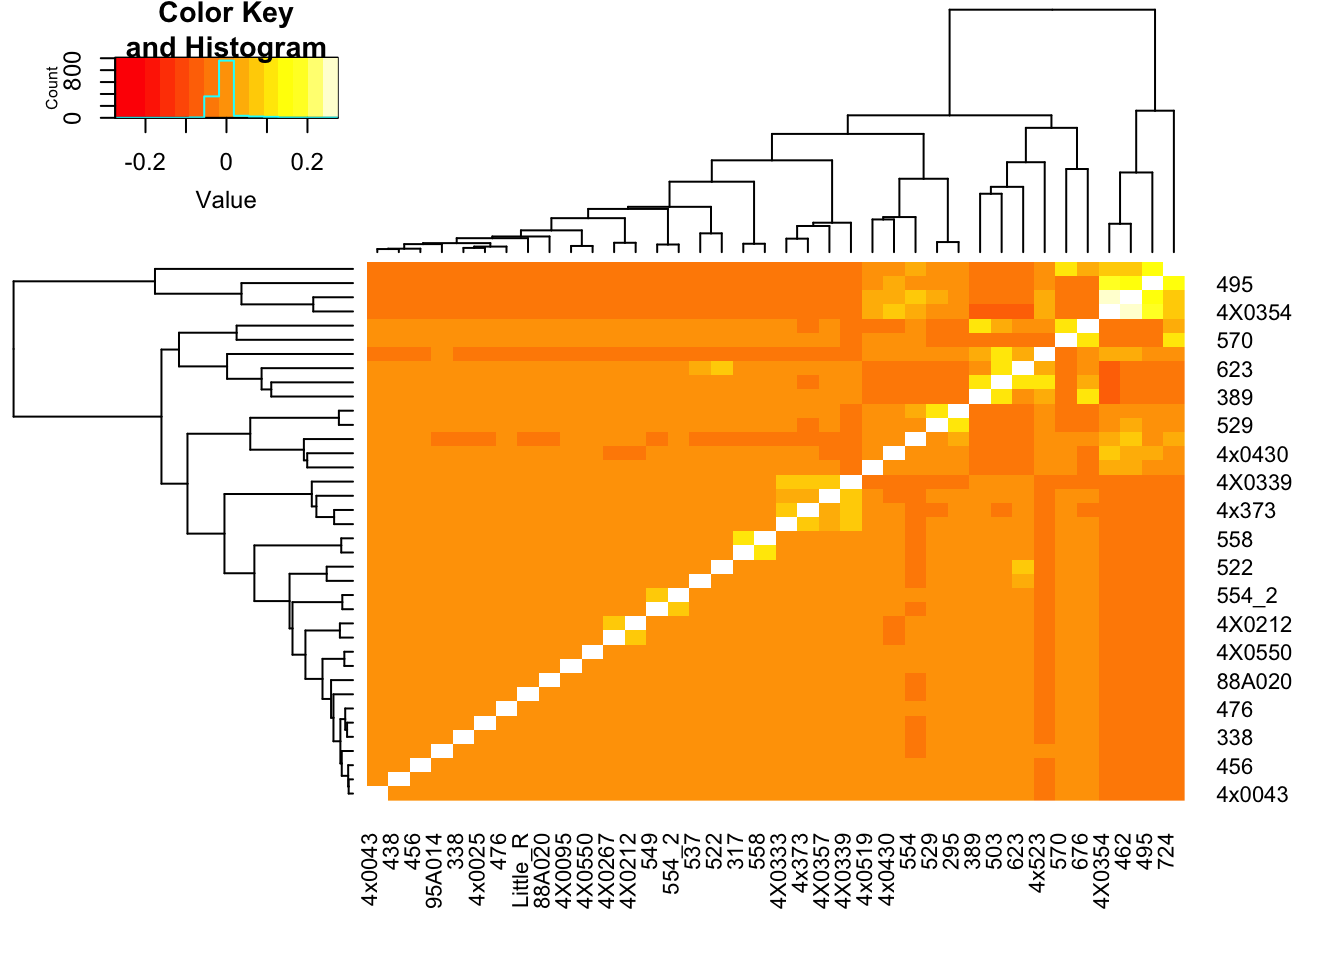
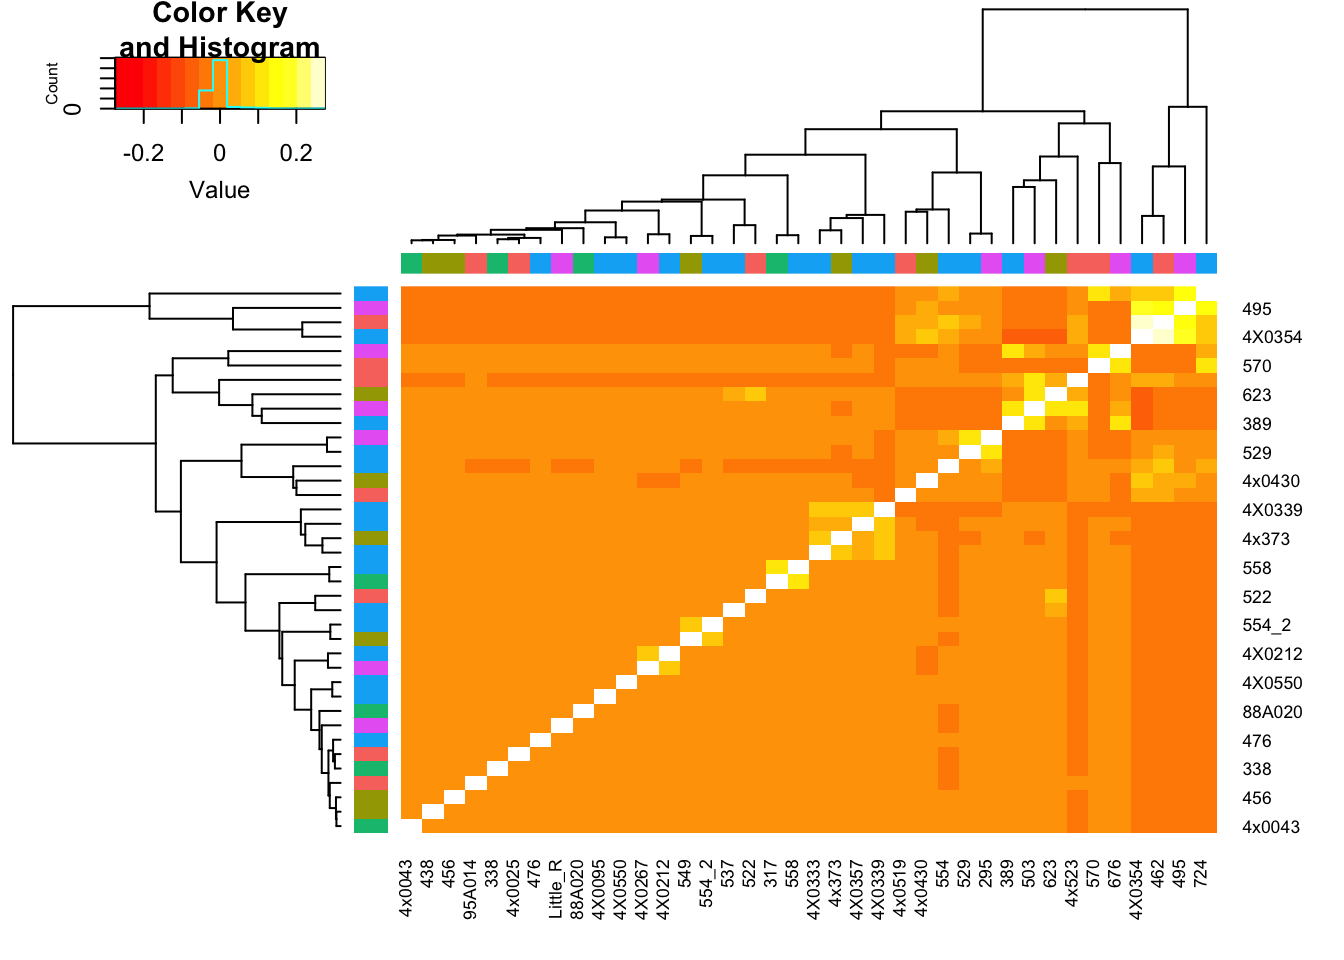
update site

diff --git a/docs/20200907_Response_Point_06.html b/docs/20200907_Response_Point_06.html
@@ -432,7 +432,7 @@ This reproducible <a href="http://rmarkdown.rstudio.com">R Markdown</a> analysis
 </div>
 <div id="strongRMarkdownfilestronguncommittedchanges" class="panel-collapse collapse">
 <div class="panel-body">
-<p>The R Markdown is untracked by Git. To know which version of the R Markdown file created these results, you’ll want to first commit it to the Git repo. If you’re still working on the analysis, you can ignore this warning. When you’re finished, you can run <code>wflow_publish</code> to commit the R Markdown file and build the HTML.</p>
+<p>The R Markdown file has unstaged changes. To know which version of the R Markdown file created these results, you’ll want to first commit it to the Git repo. If you’re still working on the analysis, you can ignore this warning. When you’re finished, you can run <code>wflow_publish</code> to commit the R Markdown file and build the HTML.</p>
 </div>
 </div>
 </div>
@@ -499,10 +499,10 @@ This reproducible <a href="http://rmarkdown.rstudio.com">R Markdown</a> analysis
 <div class="panel panel-default">
 <div class="panel-heading">
 <p class="panel-title">
-<a data-toggle="collapse" data-parent="#workflowr-checks" href="#strongRepositoryversionstrongahrefhttpsgithubcombfairkunComparativeeQTLtree16b29049b0abd3e554f51f68ff008c54812985edtargetblank16b2904a"> <span class="glyphicon glyphicon-ok text-success" aria-hidden="true"></span> <strong>Repository version:</strong> <a href="https://github.com/bfairkun/Comparative_eQTL/tree/16b29049b0abd3e554f51f68ff008c54812985ed" target="_blank">16b2904</a> </a>
+<a data-toggle="collapse" data-parent="#workflowr-checks" href="#strongRepositoryversionstrongahrefhttpsgithubcombfairkunComparativeeQTLtree5f95cbc38ccc25bd80d302da4f64290c16b317b6targetblank5f95cbca"> <span class="glyphicon glyphicon-ok text-success" aria-hidden="true"></span> <strong>Repository version:</strong> <a href="https://github.com/bfairkun/Comparative_eQTL/tree/5f95cbc38ccc25bd80d302da4f64290c16b317b6" target="_blank">5f95cbc</a> </a>
 </p>
 </div>
[2 lines of base64/hex data omitted]
 <div class="panel-body">
 <p>
 Great! You are using Git for version control. Tracking code development and connecting the code version to the results is critical for reproducibility. The version displayed above was the version of the Git repository at the time these results were generated. <br><br> Note that you need to be careful to ensure that all relevant files for the analysis have been committed to Git prior to generating the results (you can use <code>wflow_publish</code> or <code>wflow_git_commit</code>). workflowr only checks the R Markdown file, but you know if there are other scripts or data files that it depends on. Below is the status of the Git repository when the results were generated:
@@ -526,11 +526,8 @@ Ignored files:
     Ignored:    figures/
     Ignored:    output/.DS_Store
 
-Untracked files:
-    Untracked:  analysis/20200907_Response_Point_06.Rmd
-
 Unstaged changes:
-    Modified:   analysis/20200907_Response_OriginalComments.Rmd
+    Modified:   analysis/20200907_Response_Point_06.Rmd
 
 </code></pre>
 <p>
@@ -543,9 +540,69 @@ Note that any generated files, e.g. HTML, png, CSS, etc., are not included in t
 <hr>
 </div>
 <div id="versions" class="tab-pane fade">
+
 <p>
-There are no past versions. Publish this analysis with <code>wflow_publish()</code> to start tracking its development.
+These are the previous versions of the R Markdown and HTML files. If you’ve configured a remote Git repository (see <code>?wflow_git_remote</code>), click on the hyperlinks in the table below to view them.
 </p>
+<div class="table-responsive">
+<table class="table table-condensed table-hover">
+<thead>
+<tr>
+<th>
+File
+</th>
+<th>
+Version
+</th>
+<th>
+Author
+</th>
+<th>
+Date
+</th>
+<th>
+Message
+</th>
+</tr>
+</thead>
+<tbody>
+<tr>
+<td>
+Rmd
+</td>
+<td>
+<a href="https://github.com/bfairkun/Comparative_eQTL/blob/5f95cbc38ccc25bd80d302da4f64290c16b317b6/analysis/20200907_Response_Point_06.Rmd" target="_blank">5f95cbc</a>
+</td>
+<td>
+Benjmain Fair
+</td>
+<td>
+2020-09-10
+</td>
+<td>
+update site
+</td>
+</tr>
+<tr>
+<td>
+html
+</td>
+<td>
+<a href="https://rawcdn.githack.com/bfairkun/Comparative_eQTL/5f95cbc38ccc25bd80d302da4f64290c16b317b6/docs/20200907_Response_Point_06.html" target="_blank">5f95cbc</a>
+</td>
+<td>
+Benjmain Fair
+</td>
+<td>
+2020-09-10
+</td>
+<td>
+update site
+</td>
+</tr>
+</tbody>
+</table>
+</div>
 <hr>
 </div>
 </div>
@@ -557,16 +614,70 @@ There are no past versions. Publish this analysis with <code>wflow_publish()</co
 <p>I will address the first point (about relatedness in DE analysis) empricially by reporfming DE analysis with subsamples of chimps that have some relatively high degree of inter-relatedness, compared to subsamples that do not have such relatedness.</p>
 <p>First load necessary libraries for analysis…</p>
 <pre class="r"><code>library(tidyverse)
-library(gplots)</code></pre>
-<p>Load relatedness matrix</p>
-<pre class="r"><code>SampleLabels &lt;- read.table(&#39;../output/ForAssociationTesting.temp.fam&#39;, stringsAsFactors = F)$V2
+library(gplots)
+library(readxl)
+library(scales)</code></pre>
+<p>Load relatedness matrix and RNA-seq sample batch info</p>
+<pre class="r"><code>#Relatedness matrix
+SampleLabels &lt;- read.table(&#39;../output/ForAssociationTesting.temp.fam&#39;, stringsAsFactors = F)$V2
 GemmaMatrix &lt;- as.matrix(read.table(&#39;../output/GRM.cXX.txt&#39;))
 colnames(GemmaMatrix) &lt;- SampleLabels
 row.names(GemmaMatrix) &lt;- SampleLabels
 
+#Metadata like RNA-seq batch
+Metadata&lt;-read_excel(&quot;../data/Metadata_SequencedChimps.xlsx&quot;)
+Metadata$RNA.Extract_date %&gt;% unique() %&gt;% length()</code></pre>
+<pre><code>[1] 5</code></pre>
+<pre class="r"><code>Metadata$RNA.Library.prep.batch %&gt;% unique() %&gt;% length()</code></pre>
+<pre><code>[1] 5</code></pre>
+<pre class="r"><code>Colors &lt;- data.frame(Numbers=1:5, Colors=hue_pal()(5))
+
+BatchColor &lt;- data.frame(IndividualID=as.character(colnames(GemmaMatrix))) %&gt;% 
+  left_join(Metadata, by=c(&quot;IndividualID&quot;=&quot;IndividualID (as listed in vcf)&quot;)) %&gt;%
+  dplyr::select(IndividualID, RNA.Library.prep.batch) %&gt;%
+  left_join(Colors, by=c(&quot;RNA.Library.prep.batch&quot;=&quot;Numbers&quot;)) %&gt;%
+  pull(Colors) %&gt;% as.character()
+
 diag(GemmaMatrix) &lt;- NA #For plotting purposes, just don&#39;t show the diagonol so that the color scale is better for non-diagnol entries
-heatmap.2(GemmaMatrix, trace=&quot;none&quot;)</code></pre>
+heatmap.2(GemmaMatrix, trace=&quot;none&quot;, RowSideColors = BatchColor, ColSideColors = BatchColor)</code></pre>
 <p><img src="figure/20200907_Response_Point_06.Rmd/unnamed-chunk-2-1.png" width="672" style="display: block; margin: auto;" /></p>
+<p>
+<button type="button" class="btn btn-default btn-xs btn-workflowr btn-workflowr-fig" data-toggle="collapse" data-target="#fig-unnamed-chunk-2-1">
+Past versions of unnamed-chunk-2-1.png
+</button>
+</p>
+<div id="fig-unnamed-chunk-2-1" class="collapse">
+<div class="table-responsive">
+<table class="table table-condensed table-hover">
+<thead>
+<tr>
+<th>
+Version
+</th>
+<th>
+Author
+</th>
+<th>
+Date
+</th>
+</tr>
+</thead>
+<tbody>
+<tr>
+<td>
+<a href="https://github.com/bfairkun/Comparative_eQTL/blob/5f95cbc38ccc25bd80d302da4f64290c16b317b6/docs/figure/20200907_Response_Point_06.Rmd/unnamed-chunk-2-1.png" target="_blank">5f95cbc</a>
+</td>
+<td>
+Benjmain Fair
+</td>
+<td>
+2020-09-10
+</td>
+</tr>
+</tbody>
+</table>
+</div>
+</div>
 <p>I may pick out some of those somewhat related sample blocks for DE analysis… First, I should also try to match batches for this analysis.</p>
 <br>
 <p>
@@ -591,27 +702,27 @@ attached base packages:
 [1] stats     graphics  grDevices utils     datasets  methods   base     
 
 other attached packages:
- [1] gplots_3.0.1.1  forcats_0.4.0   stringr_1.4.0   dplyr_0.8.3    
- [5] purrr_0.3.3     readr_1.3.1     tidyr_1.0.0     tibble_2.1.3   
- [9] ggplot2_3.2.1   tidyverse_1.3.0
+ [1] scales_1.1.0    readxl_1.3.1    gplots_3.0.1.1  forcats_0.4.0  
+ [5] stringr_1.4.0   dplyr_0.8.3     purrr_0.3.3     readr_1.3.1    
+ [9] tidyr_1.0.0     tibble_2.1.3    ggplot2_3.2.1   tidyverse_1.3.0
 
 loaded via a namespace (and not attached):
- [1] gtools_3.8.1       tidyselect_0.2.5   xfun_0.11          haven_2.2.0       
- [5] lattice_0.20-38    colorspace_1.4-1   vctrs_0.2.0        generics_0.0.2    
- [9] htmltools_0.4.0    yaml_2.2.0         rlang_0.4.1        later_1.0.0       
-[13] pillar_1.4.2       withr_2.1.2        glue_1.3.1         DBI_1.0.0         
-[17] dbplyr_1.4.2       modelr_0.1.5       readxl_1.3.1       lifecycle_0.1.0   
-[21] munsell_0.5.0      gtable_0.3.0       workflowr_1.5.0    cellranger_1.1.0  
-[25] rvest_0.3.5        caTools_1.17.1.3   evaluate_0.14      knitr_1.26        
-[29] httpuv_1.5.2       fansi_0.4.0        broom_0.5.2        Rcpp_1.0.5        
-[33] KernSmooth_2.23-16 promises_1.1.0     backports_1.1.5    scales_1.1.0      
-[37] gdata_2.18.0       jsonlite_1.6       fs_1.3.1           hms_0.5.2         
-[41] digest_0.6.23      stringi_1.4.3      grid_3.6.1         rprojroot_1.3-2   
-[45] bitops_1.0-6       cli_2.0.0          tools_3.6.1        magrittr_1.5      
-[49] lazyeval_0.2.2     crayon_1.3.4       pkgconfig_2.0.3    zeallot_0.1.0     
-[53] xml2_1.2.2         reprex_0.3.0       lubridate_1.7.4    rstudioapi_0.10   
-[57] assertthat_0.2.1   rmarkdown_1.18     httr_1.4.1         R6_2.4.1          
-[61] nlme_3.1-143       git2r_0.26.1       compiler_3.6.1    </code></pre>
+ [1] Rcpp_1.0.5         lubridate_1.7.4    lattice_0.20-38    gtools_3.8.1      
+ [5] assertthat_0.2.1   zeallot_0.1.0      rprojroot_1.3-2    digest_0.6.23     
+ [9] R6_2.4.1           cellranger_1.1.0   backports_1.1.5    reprex_0.3.0      
+[13] evaluate_0.14      httr_1.4.1         pillar_1.4.2       rlang_0.4.1       
+[17] lazyeval_0.2.2     rstudioapi_0.10    gdata_2.18.0       whisker_0.4       
+[21] rmarkdown_1.18     munsell_0.5.0      broom_0.5.2        compiler_3.6.1    
+[25] httpuv_1.5.2       modelr_0.1.5       xfun_0.11          pkgconfig_2.0.3   
+[29] htmltools_0.4.0    tidyselect_0.2.5   workflowr_1.5.0    fansi_0.4.0       
+[33] crayon_1.3.4       dbplyr_1.4.2       withr_2.1.2        later_1.0.0       
+[37] bitops_1.0-6       grid_3.6.1         nlme_3.1-143       jsonlite_1.6      
+[41] gtable_0.3.0       lifecycle_0.1.0    DBI_1.0.0          git2r_0.26.1      
+[45] magrittr_1.5       KernSmooth_2.23-16 cli_2.0.0          stringi_1.4.3     
+[49] farver_2.0.1       fs_1.3.1           promises_1.1.0     xml2_1.2.2        
+[53] generics_0.0.2     vctrs_0.2.0        tools_3.6.1        glue_1.3.1        
+[57] hms_0.5.2          yaml_2.2.0         colorspace_1.4-1   caTools_1.17.1.3  
+[61] rvest_0.3.5        knitr_1.26         haven_2.2.0       </code></pre>
 </div>
 
 
